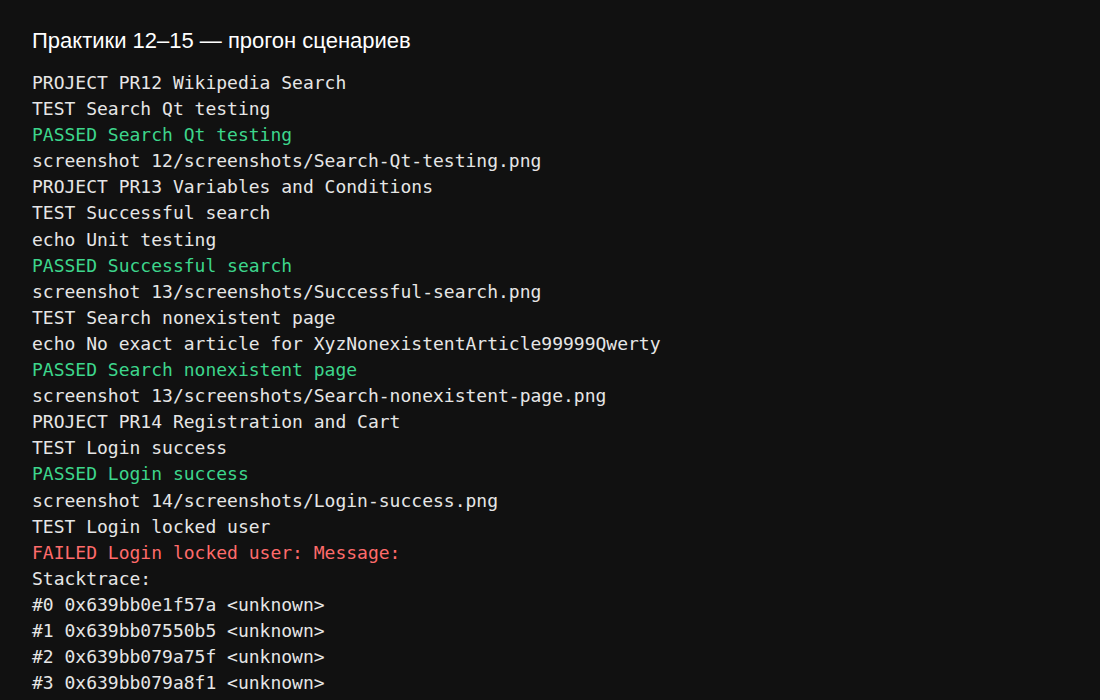
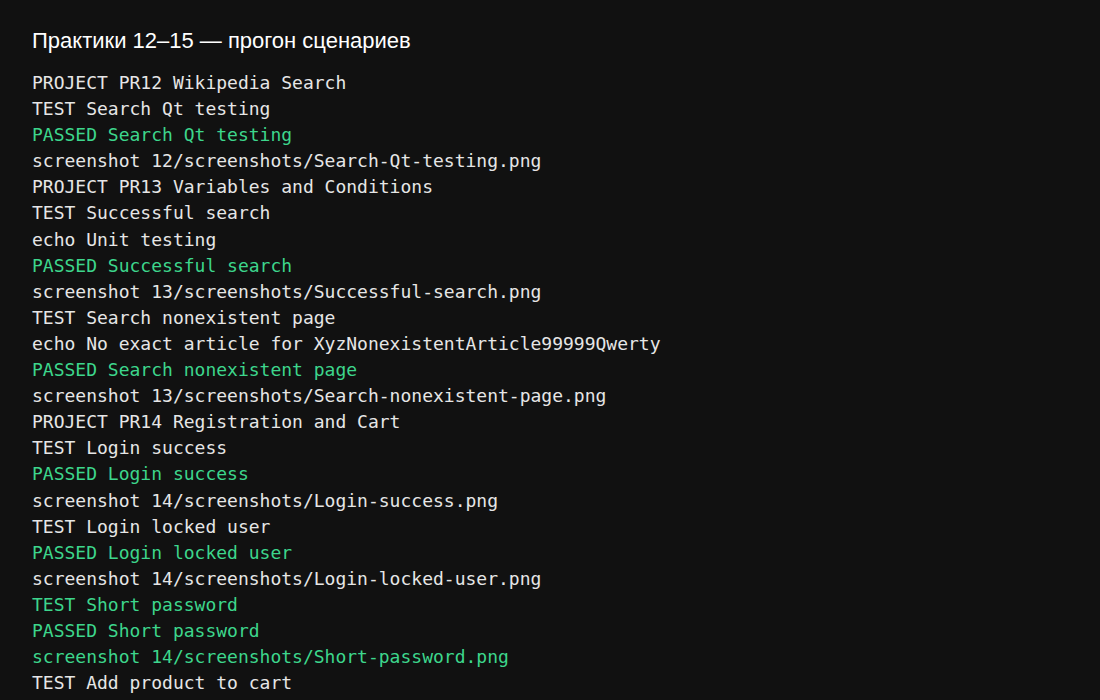
Record remote test results [skip ci]

Changed region(s): [[0.0309, 0.78, 0.4945, 0.99]]

diff --git a/12/screenshots/side-run.html b/12/screenshots/side-run.html
@@ -6,4 +6,4 @@ h1 { margin:0 0 16px; font:22px Segoe UI,sans-serif; color:#fff; }
 .fail { color:#ff6b6b; }
 </style>
 <h1>Практики 12–15 — прогон сценариев</h1>
-<div class="">PROJECT PR12 Wikipedia Search</div><div class="">TEST Search Qt testing</div><div class="ok">PASSED Search Qt testing</div><div class="">screenshot 12/screenshots/Search-Qt-testing.png</div><div class="">PROJECT PR13 Variables and Conditions</div><div class="">TEST Successful search</div><div class="">echo Unit testing</div><div class="ok">PASSED Successful search</div><div class="">screenshot 13/screenshots/Successful-search.png</div><div class="">TEST Search nonexistent page</div><div class="">echo No exact article for XyzNonexistentArticle99999Qwerty</div><div class="ok">PASSED Search nonexistent page</div><div class="">screenshot 13/screenshots/Search-nonexistent-page.png</div><div class="">PROJECT PR14 Registration and Cart</div><div class="">TEST Login success</div><div class="ok">PASSED Login success</div><div class="">screenshot 14/screenshots/Login-success.png</div><div class="">TEST Login locked user</div><div class="fail">FAILED Login locked user: Message: </div><div class="">Stacktrace:</div><div class="">#0 0x639bb0e1f57a &lt;unknown&gt;</div><div class="">#1 0x639bb07550b5 &lt;unknown&gt;</div><div class="">#2 0x639bb079a75f &lt;unknown&gt;</div><div class="">#3 0x639bb079a8f1 &lt;unknown&gt;</div><div class="">#4 0x639bb07d86b4 &lt;unknown&gt;</div><div class="">#5 0x639bb07d6d33 &lt;unknown&gt;</div><div class="">#6 0x639bb07d6641 &lt;unknown&gt;</div><div class="">#7 0x639bb07914d7 &lt;unknown&gt;</div><div class="">#8 0x639bb07907ee &lt;unknown&gt;</div><div class="">#9 0x639bb07912c1 &lt;unknown&gt;</div><div class="">#10 0x639bb0de245c &lt;unknown&gt;</div><div class="">#11 0x639bb0de0c8f &lt;unknown&gt;</div><div class="">#12 0x639bb0dcbb05 &lt;unknown&gt;</div><div class="">#13 0x639bb0de18ca &lt;unknown&gt;</div><div class="">#14 0x639bb0db3939 &lt;unknown&gt;</div><div class="">#15 0x639bb0e09fd8 &lt;unknown&gt;</div><div class="">#16 0x639bb0e0a175 &lt;unknown&gt;</div><div class="">#17 0x639bb0e1dee3 &lt;unknown&gt;</div><div class="">#18 0x74c1420abe6b &lt;unknown&gt;</div><div class="">#19 0x74c14213f55c &lt;unknown&gt;</div><div class="">&nbsp;</div><div class="fail">screenshot 14/screenshots/Login-locked-user-failed.png</div><div class="ok">TEST Short password</div><div class="fail">FAILED Short password: Message: </div><div class="">Stacktrace:</div><div class="">#0 0x639bb0e1f57a &lt;unknown&gt;</div><div class="">#1 0x639bb07550b5 &lt;unknown&gt;</div><div class="">#2 0x639bb079a75f &lt;unknown&gt;</div><div class="">#3 0x639bb079a8f1 &lt;unknown&gt;</div><div class="">#4 0x639bb07d86b4 &lt;unknown&gt;</div><div class="">#5 0x639bb07d6d33 &lt;unknown&gt;</div><div class="">#6 0x639bb07d6641 &lt;unknown&gt;</div><div class="">#7 0x639bb07914d7 &lt;unknown&gt;</div><div class="">#8 0x639bb07907ee &lt;unknown&gt;</div><div class="">#9 0x639bb07912c1 &lt;unknown&gt;</div><div class="">#10 0x639bb0de245c &lt;unknown&gt;</div><div class="">#11 0x639bb0de0c8f &lt;unknown&gt;</div><div class="">#12 0x639bb0dcbb05 &lt;unknown&gt;</div><div class="">#13 0x639bb0de18ca &lt;unknown&gt;</div><div class="">#14 0x639bb0db3939 &lt;unknown&gt;</div><div class="">#15 0x639bb0e09fd8 &lt;unknown&gt;</div><div class="">#16 0x639bb0e0a175 &lt;unknown&gt;</div><div class="">#17 0x639bb0e1dee3 &lt;unknown&gt;</div><div class="">#18 0x74c1420abe6b &lt;unknown&gt;</div><div class="">#19 0x74c14213f55c &lt;unknown&gt;</div><div class="">&nbsp;</div><div class="fail">screenshot 14/screenshots/Short-password-failed.png</div><div class="">TEST Add product to cart</div><div class="fail">FAILED Add product to cart: Message: </div><div class="">Stacktrace:</div><div class="">#0 0x639bb0e1f57a &lt;unknown&gt;</div><div class="">#1 0x639bb07550b5 &lt;unknown&gt;</div><div class="">#2 0x639bb079a75f &lt;unknown&gt;</div><div class="">#3 0x639bb079a8f1 &lt;unknown&gt;</div><div class="">#4 0x639bb07d86b4 &lt;unknown&gt;</div><div class="">#5 0x639bb07d6d33 &lt;unknown&gt;</div><div class="">#6 0x639bb07d6641 &lt;unknown&gt;</div><div class="">#7 0x639bb07914d7 &lt;unknown&gt;</div><div class="">#8 0x639bb07907ee &lt;unknown&gt;</div><div class="">#9 0x639bb07912c1 &lt;unknown&gt;</div><div class="">#10 0x639bb0de245c &lt;unknown&gt;</div><div class="">#11 0x639bb0de0c8f &lt;unknown&gt;</div><div class="">#12 0x639bb0dcbb05 &lt;unknown&gt;</div><div class="">#13 0x639bb0de18ca &lt;unknown&gt;</div><div class="">#14 0x639bb0db3939 &lt;unknown&gt;</div><div class="">#15 0x639bb0e09fd8 &lt;unknown&gt;</div><div class="">#16 0x639bb0e0a175 &lt;unknown&gt;</div><div class="">#17 0x639bb0e1dee3 &lt;unknown&gt;</div><div class="">#18 0x74c1420abe6b &lt;unknown&gt;</div><div class="">#19 0x74c14213f55c &lt;unknown&gt;</div><div class="">&nbsp;</div><div class="fail">screenshot 14/screenshots/Add-product-to-cart-failed.png</div><div class="">TEST Registration success</div><div class="ok">PASSED Registration success</div><div class="">screenshot 14/screenshots/Registration-success.png</div><div class="">PROJECT PR15 Waits and Dynamic UI</div><div class="">TEST Infinite scroll load</div><div class="ok">PASSED Infinite scroll load</div><div class="">screenshot 15/screenshots/Infinite-scroll-load.png</div><div class="">TEST Wait for title</div><div class="ok">PASSED Wait for title</div><div class="">screenshot 15/screenshots/Wait-for-title.png</div><div class="">TEST Hover caption</div><div class="ok">PASSED Hover caption</div><div class="">screenshot 15/screenshots/Hover-caption.png</div>
+<div class="">PROJECT PR12 Wikipedia Search</div><div class="">TEST Search Qt testing</div><div class="ok">PASSED Search Qt testing</div><div class="">screenshot 12/screenshots/Search-Qt-testing.png</div><div class="">PROJECT PR13 Variables and Conditions</div><div class="">TEST Successful search</div><div class="">echo Unit testing</div><div class="ok">PASSED Successful search</div><div class="">screenshot 13/screenshots/Successful-search.png</div><div class="">TEST Search nonexistent page</div><div class="">echo No exact article for XyzNonexistentArticle99999Qwerty</div><div class="ok">PASSED Search nonexistent page</div><div class="">screenshot 13/screenshots/Search-nonexistent-page.png</div><div class="">PROJECT PR14 Registration and Cart</div><div class="">TEST Login success</div><div class="ok">PASSED Login success</div><div class="">screenshot 14/screenshots/Login-success.png</div><div class="">TEST Login locked user</div><div class="ok">PASSED Login locked user</div><div class="">screenshot 14/screenshots/Login-locked-user.png</div><div class="ok">TEST Short password</div><div class="ok">PASSED Short password</div><div class="ok">screenshot 14/screenshots/Short-password.png</div><div class="">TEST Add product to cart</div><div class="fail">FAILED Add product to cart: Message: </div><div class="">Stacktrace:</div><div class="">#0 0x61f0a6f6957a &lt;unknown&gt;</div><div class="">#1 0x61f0a689f0b5 &lt;unknown&gt;</div><div class="">#2 0x61f0a68e475f &lt;unknown&gt;</div><div class="">#3 0x61f0a68e48f1 &lt;unknown&gt;</div><div class="">#4 0x61f0a69226b4 &lt;unknown&gt;</div><div class="">#5 0x61f0a6920d33 &lt;unknown&gt;</div><div class="">#6 0x61f0a6920641 &lt;unknown&gt;</div><div class="">#7 0x61f0a68db4d7 &lt;unknown&gt;</div><div class="">#8 0x61f0a68da7ee &lt;unknown&gt;</div><div class="">#9 0x61f0a68db2c1 &lt;unknown&gt;</div><div class="">#10 0x61f0a6f2c45c &lt;unknown&gt;</div><div class="">#11 0x61f0a6f2ac8f &lt;unknown&gt;</div><div class="">#12 0x61f0a6f15b05 &lt;unknown&gt;</div><div class="">#13 0x61f0a6f2b8ca &lt;unknown&gt;</div><div class="">#14 0x61f0a6efd939 &lt;unknown&gt;</div><div class="">#15 0x61f0a6f53fd8 &lt;unknown&gt;</div><div class="">#16 0x61f0a6f54175 &lt;unknown&gt;</div><div class="">#17 0x61f0a6f67ee3 &lt;unknown&gt;</div><div class="">#18 0x757d744abe6b &lt;unknown&gt;</div><div class="">#19 0x757d7453f55c &lt;unknown&gt;</div><div class="">&nbsp;</div><div class="fail">screenshot 14/screenshots/Add-product-to-cart-failed.png</div><div class="">TEST Registration success</div><div class="ok">PASSED Registration success</div><div class="">screenshot 14/screenshots/Registration-success.png</div><div class="">PROJECT PR15 Waits and Dynamic UI</div><div class="">TEST Infinite scroll load</div><div class="ok">PASSED Infinite scroll load</div><div class="">screenshot 15/screenshots/Infinite-scroll-load.png</div><div class="">TEST Wait for title</div><div class="ok">PASSED Wait for title</div><div class="">screenshot 15/screenshots/Wait-for-title.png</div><div class="">TEST Hover caption</div><div class="ok">PASSED Hover caption</div><div class="">screenshot 15/screenshots/Hover-caption.png</div>
